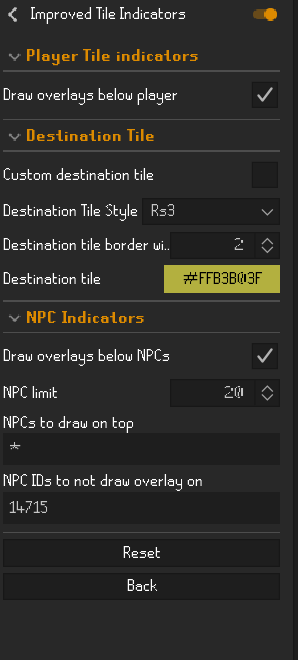
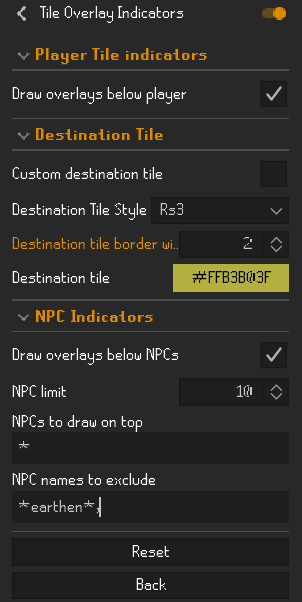
Removed player npc id input. Replace it with player npc name input

diff --git a/src/main/java/io/leikvolle/tileindicators/ImprovedTileIndicatorsPlugin.java b/src/main/java/io/leikvolle/tileindicators/ImprovedTileIndicatorsPlugin.java
@@ -76,7 +76,8 @@ public class ImprovedTileIndicatorsPlugin extends Plugin
 	@Getter(AccessLevel.PACKAGE)
 	private final Set<NPC> onTopNpcs = new HashSet<>();
 	private List<String> onTopNPCNames = new ArrayList<>();
-	private List<Integer> excludedNPCIds = new ArrayList<>();
+	private List<String> excludedNPCNames = new ArrayList<>();
+	private final Set<Integer> excludedNPCIds = new HashSet<>();
 
 	private static final String DRAW_ABOVE = "Draw-Above";
 	private static final String DRAW_BELOW = "Draw-Below";
@@ -133,7 +134,12 @@ public class ImprovedTileIndicatorsPlugin extends Plugin
 			return;
 		}
 
-		if (onTopMatchesNPCName(npcName) && !excludedMatchesNPCId(npc.getId()))
+		if (excludedMatchesNPC(npc))
+		{
+			return;
+		}
+
+		if (onTopMatchesNPCName(npcName))
 		{
 			onTopNpcs.add(npc);
 		}
@@ -165,7 +171,7 @@ public class ImprovedTileIndicatorsPlugin extends Plugin
 			if (npc == null) return;
 			final String npcName = getNameForCachedNPC(event.getIdentifier());
 			if (npcName == null) return;
-			if (excludedMatchesNPCId(npc.getId())) return;
+			if (excludedMatchesNPC(npc)) return;
 			boolean matchesList = onTopNPCNames.stream()
 					.filter(highlight -> !highlight.equalsIgnoreCase(npcName))
 					.anyMatch(highlight -> WildcardMatcher.matches(highlight, npcName));
@@ -216,7 +222,7 @@ public class ImprovedTileIndicatorsPlugin extends Plugin
 		return Text.fromCSV(configNpcs);
 	}
 
-	List<Integer> getExcludedNPCs()
+	List<String> getExcludedNPCs()
 	{
 		final String configNpcs = config.getExcludedNPCs();
 
@@ -225,27 +231,14 @@ public class ImprovedTileIndicatorsPlugin extends Plugin
 			return Collections.emptyList();
 		}
 
-		final List<Integer> excludedIds = new ArrayList<>();
-
-		for (String configNpc : Text.fromCSV(configNpcs))
-		{
-			try
-			{
-				excludedIds.add(Integer.parseInt(configNpc.trim()));
-			}
-			catch (NumberFormatException e)
-			{
-				log.debug("Skipping invalid excluded NPC id '{}'.", configNpc);
-			}
-		}
-
-		return excludedIds;
+		return Text.fromCSV(configNpcs);
 	}
 
 	void rebuild()
 	{
 		onTopNPCNames = getTopNPCs();
-		excludedNPCIds = getExcludedNPCs();
+		excludedNPCNames = getExcludedNPCs();
+		excludedNPCIds.clear();
 		onTopNpcs.clear();
 
 		if (client.getGameState() != GameState.LOGGED_IN &&
@@ -263,7 +256,12 @@ public class ImprovedTileIndicatorsPlugin extends Plugin
 				continue;
 			}
 
-			if (onTopMatchesNPCName(npcName) && !excludedMatchesNPCId(npc.getId()))
+			if (excludedMatchesNPC(npc))
+			{
+				continue;
+			}
+
+			if (onTopMatchesNPCName(npcName))
 			{
 				onTopNpcs.add(npc);
 			}
@@ -283,11 +281,26 @@ public class ImprovedTileIndicatorsPlugin extends Plugin
 		return false;
 	}
 
-	private boolean excludedMatchesNPCId(int npcId)
+	private boolean excludedMatchesNPC(NPC npc)
 	{
-		for (int excludedNpcId : excludedNPCIds)
+		final String npcName = npc.getName();
+
+		if (npcName != null && excludedMatchesNPCName(npcName))
 		{
-			if (excludedNpcId == npcId)
+			excludedNPCIds.add(npc.getId());
+			return true;
+		}
+
+		return excludedNPCIds.contains(npc.getId());
+	}
+
+	private boolean excludedMatchesNPCName(String npcName)
+	{
+		for (String matching : excludedNPCNames)
+		{
+			final String pattern = matching.trim();
+
+			if (!pattern.isEmpty() && WildcardMatcher.matches(pattern, npcName))
 			{
 				return true;
 			}

diff --git a/src/main/java/io/leikvolle/tileindicators/ImprovedTileIndicatorsConfig.java b/src/main/java/io/leikvolle/tileindicators/ImprovedTileIndicatorsConfig.java
@@ -151,8 +151,8 @@ public interface ImprovedTileIndicatorsConfig extends Config
 
 	@ConfigItem(
 			keyName = "excludedNPCs",
-			name = "NPC IDs to not draw overlay on",
-			description = "Comma-separated list of NPC IDs to exclude from overlay draw-above / draw-below behavior.",
+			name = "NPC names to exclude",
+			description = "Comma-separated list of NPC names or wildcard patterns. Matching NPCs in the current scene are resolved to NPC IDs internally.",
 			section = npcIndicatorsSection,
 			position = 9
 	)

diff --git a/README.md b/README.md
@@ -8,6 +8,10 @@ Improved integration with better npc highlights.
 In cases where you want to avoid drawing on specific NPCs, you can add their names to the "Do not draw on NPCs" list. 
 This is useful for situations like earthen shield at doom, vanguards at COX etc.
 
+Wildcard patterns are supported for awkward edge cases, for example Earthen shield:
+*shield*
+*earthen*
+
 NPCs that have not been added to exlusion list:
 
 ![](without.png)